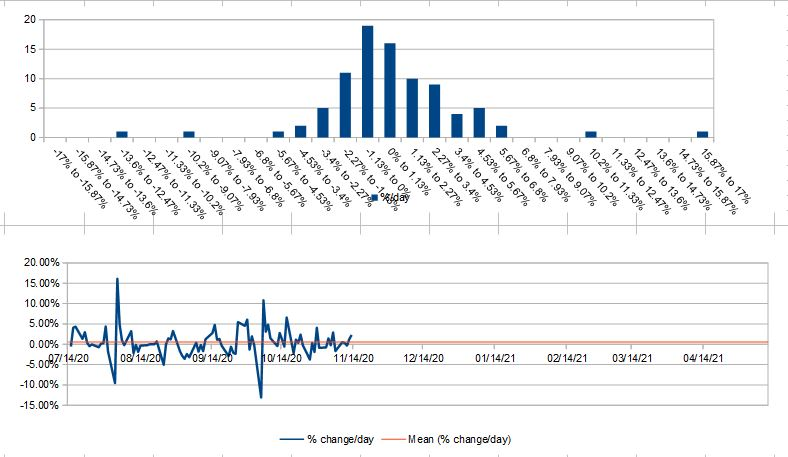
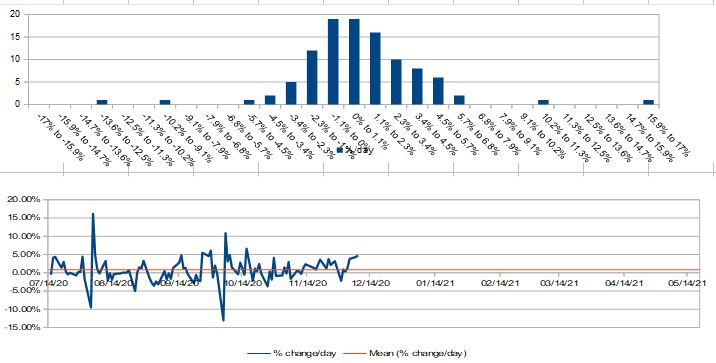
update readme

diff --git a/README.md b/README.md
@@ -86,18 +86,16 @@ After the first day, assuming you have stocks held, it will show something simil
 
 Generally it seems that it takes about 5 weeks (+/- 3 weeks) after the initial jump to jump a second time.
 
-From testing between 2020-07-14 to 2020-11-23, I have gotten an average growth rate of 0.65%/day with a standard deviation of 3.48%
+From testing between 2020-07-14 to 2020-12-08, I have gotten an average growth rate of 0.80%/day with a standard deviation of 3.40%
 
 ![Daily Returns](https://github.com/steveman1123/stonkBot/blob/master/dailyReturns.jpg?raw=true)
 
-## External Resources
+## Resources
 [Alpaca](https://alpaca.markets/)
 
 [MarketWatch Stock Screener](https://www.marketwatch.com/tools/stockresearch/screener/)
 
 [Stocks Under $1](https://stocksunder1.org/)
-
-[AlphaVantage](https://www.alphavantage.co/)
 
 [NASDAQ API Documentation](https://github.com/steveman1123/stonkBot/blob/master/NASDAQ_API_DOC.md)
 
@@ -106,19 +104,6 @@ From testing between 2020-07-14 to 2020-11-23, I have gotten an average growth r
 *If you are encountering issues, make sure to pull the latest version, it is under active delopment, so things change quickly (especially over the weekends).*
 
 if the power goes out for a while while using this (like mine did), I'd suggest finding a way to sell everything before the portfolio value starts dropping (like mine did)
-
-### Shortterm resolutions:
-* Scrape web for other likely gainers, and add to gainers list (see stonk2 repo)
-* Add timer or other ability to check how close a jump is from the target sell point (if it starts to fall, sell before falling too far)
-
-### Midterm resolutions:
-* Add master/slave relationship to allow it to run on multiple computers in the event of the primary program going down (add redundancy)
-* Make config file more readable (not json)
-* Allow for use with multiple algorithms on a single account
-
-### Longterm resolutions:
-* Record trade history and give performance analytics
-* Add some basic machine learning to improve trades over time
 
 ## Disclaimer
 I do not claim to be a financial expert and cannot be held accountable for any losses you may incur as a result of using this software
